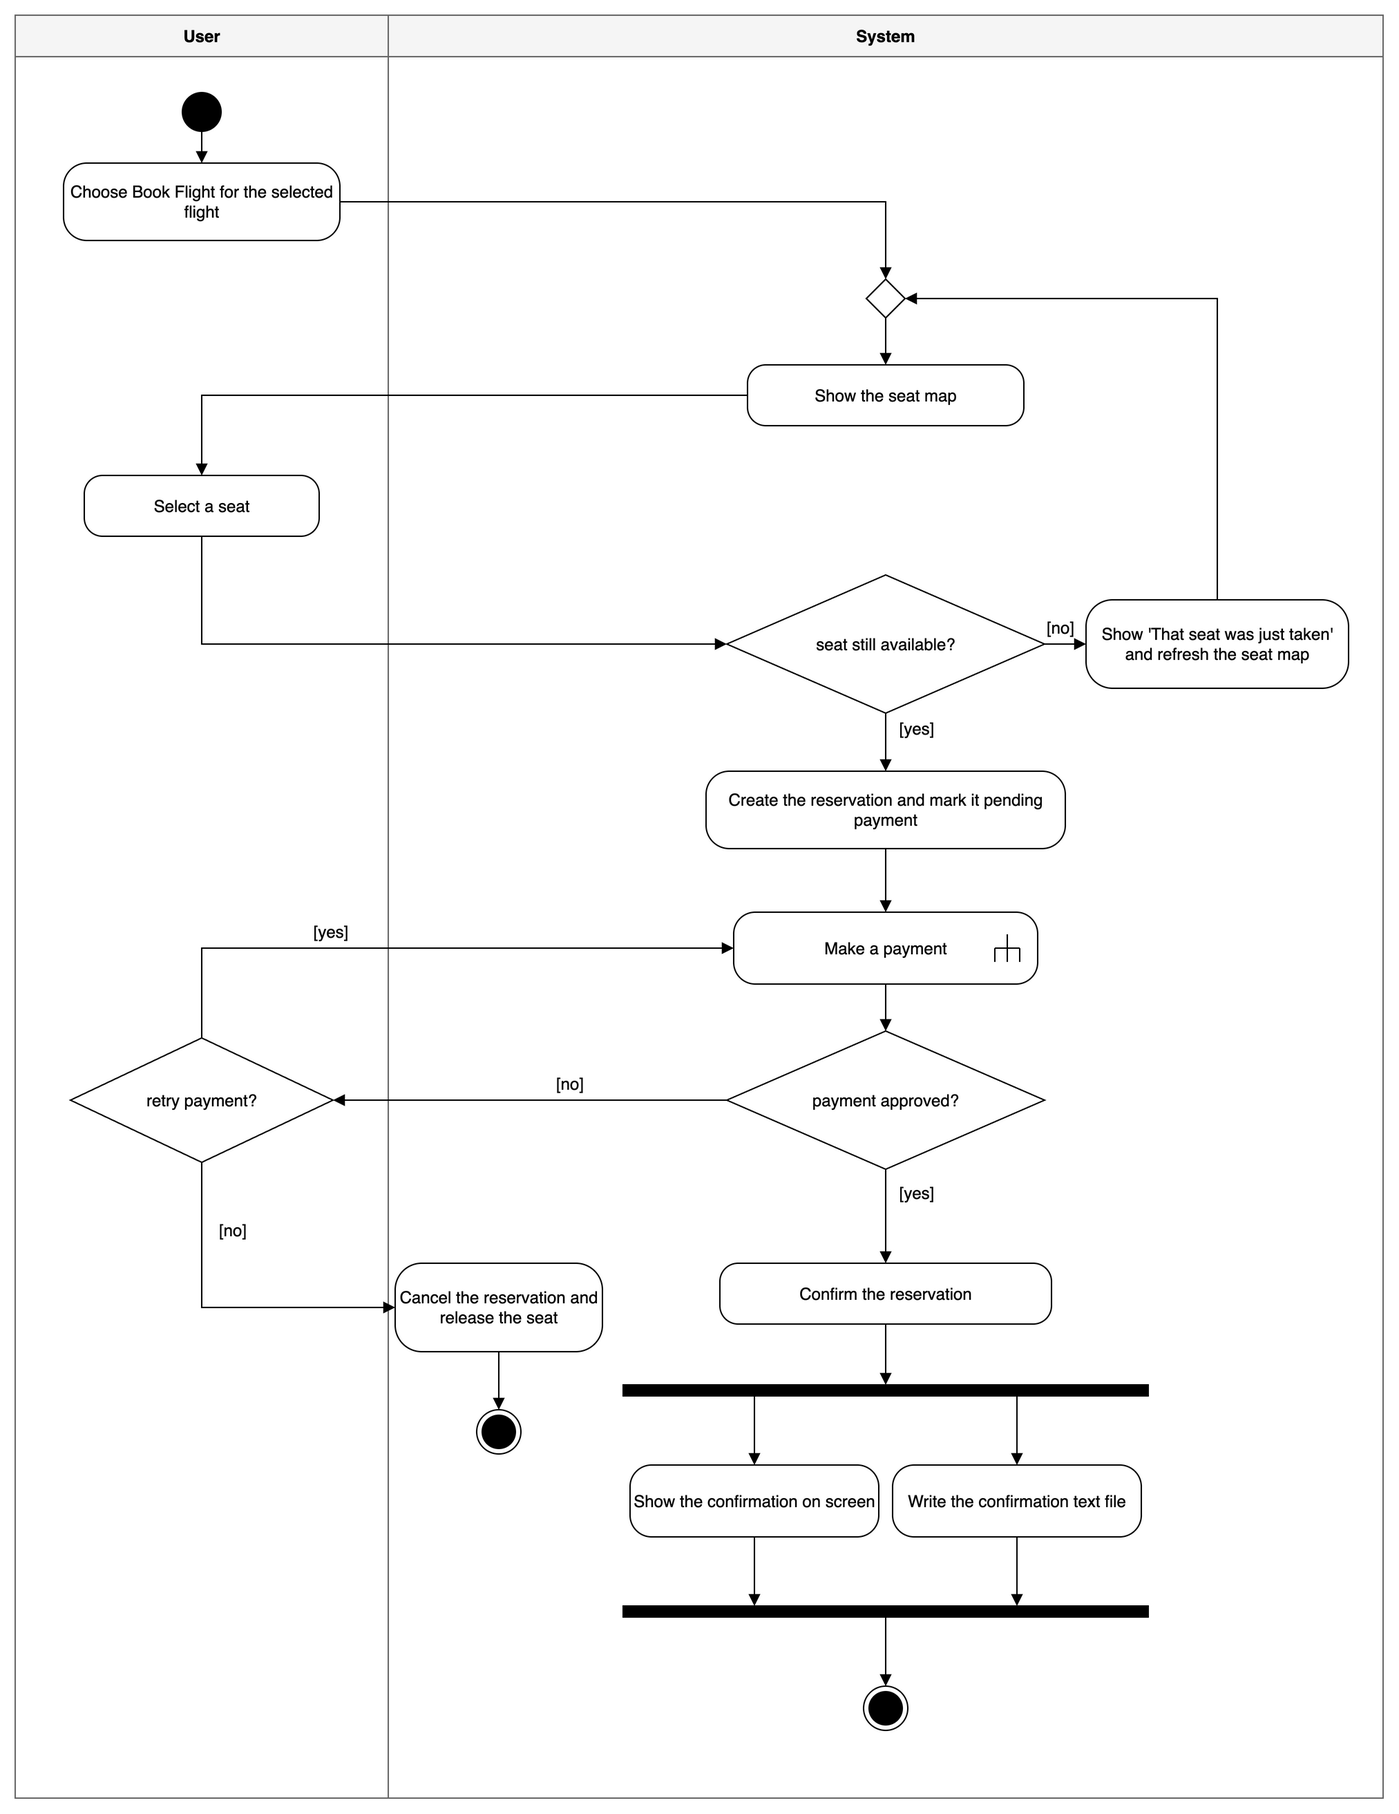
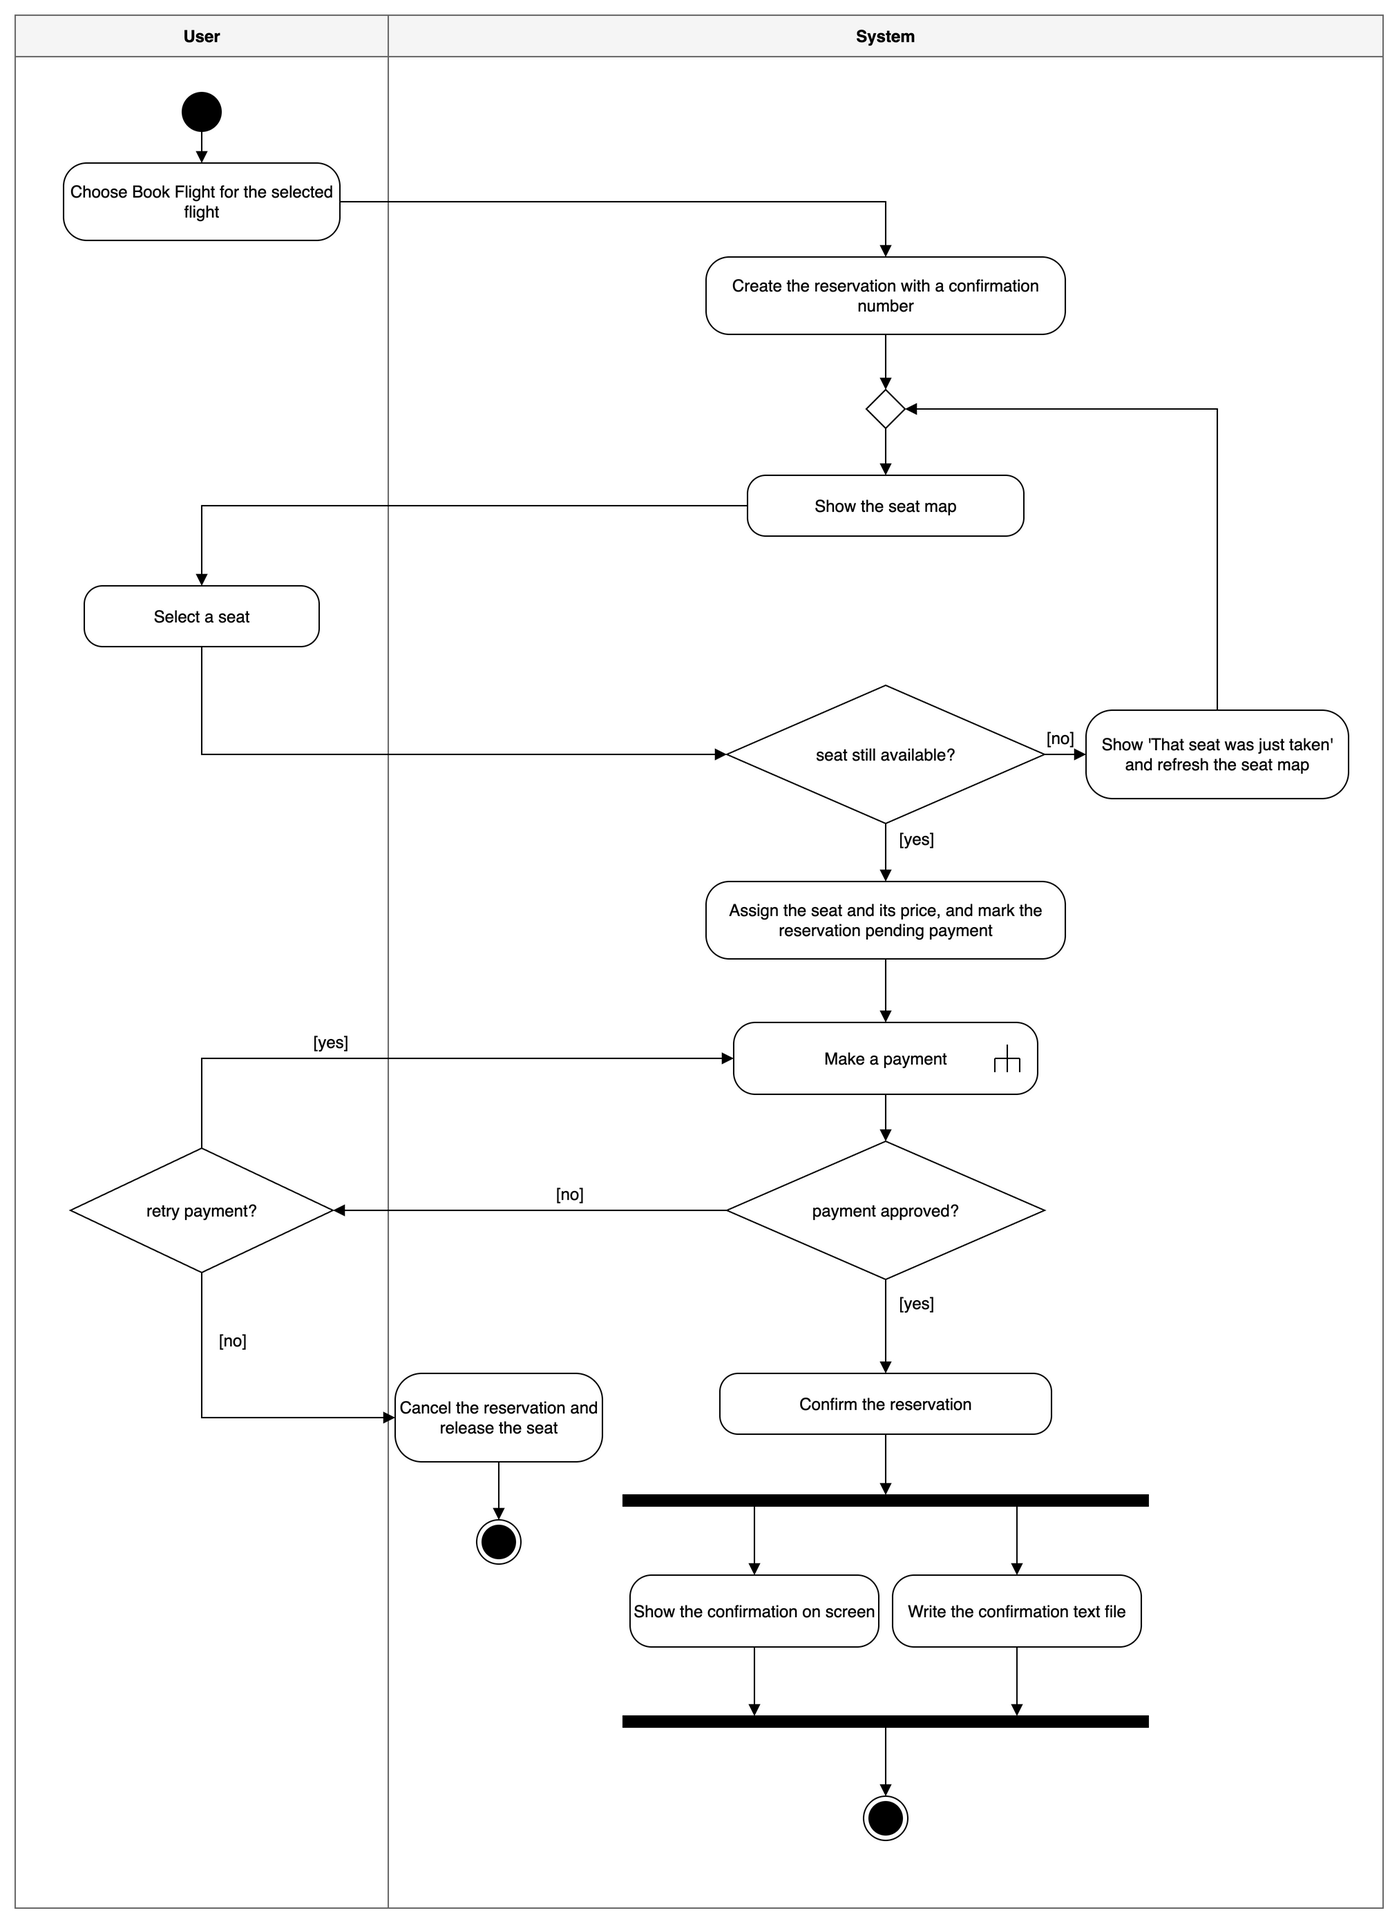
Make the design report agree with itself and with the code
The booking scenario and activity diagram now create the reservation before the seat is chosen, like BookingController and the sequence diagram. Select Seat becomes UC-18. CustomerDashboard is CustomerHome, classes that no longer exist are gone from the report, and the non-functional table names the tests that check each quality instead of issue numbers that are no longer in the repository.

diff --git a/docs/report/sections/requirements.tex b/docs/report/sections/requirements.tex
@@ -34,23 +34,23 @@ FR-14 & Select a seat when making a reservation. & 3.1 & ours\\
 
 Section 4 of the guideline names usability, portability, maintainability and
 scalability. The assessment criteria add reusability and reliability, and we
-add security. Each quality has a measurable criterion, the part of the design
-that meets it, and the issue that proves it.
+add security. Each quality has a criterion, the part of the design
+that meets it, and the automated tests that check it.
 
 \begingroup
 \raggedright
-\begin{longtable}{@{}>{\raggedright\arraybackslash}p{2.6cm}>{\raggedright\arraybackslash}p{4.7cm}>{\raggedright\arraybackslash}p{4.4cm}>{\raggedright\arraybackslash}p{2.2cm}@{}}
+\begin{longtable}{@{}>{\raggedright\arraybackslash}p{2.8cm}>{\raggedright\arraybackslash}p{4.1cm}>{\raggedright\arraybackslash}p{3.5cm}>{\raggedright\arraybackslash}p{4.0cm}@{}}
 \toprule
-\textbf{Quality} & \textbf{Measurable criterion} & \textbf{How the design meets it} & \textbf{Evidence}\\
+\textbf{Quality} & \textbf{Measurable criterion} & \textbf{How the design meets it} & \textbf{Checked by}\\
 \midrule
 \endhead
-Usability & Every use case is reachable in at most 4 clicks from the role's dashboard. A bad input shows one plain sentence that names the field and the problem, never a stack trace. Enter submits the default button and Tab follows reading order. & One dashboard per role with one button per task. Shared helpers parse input and phrase errors, so every form behaves the same. & P8-02, P8-03, P9-02\\
-Portability & \texttt{java -jar ChinookAir.jar -{}-selftest} prints \texttt{SELFTEST OK} and exits with 0 on macOS, Windows and Linux (Java 17). The database is created on first run, with no installer. & Standalone Swing application, embedded SQLite, one jar that holds every dependency. & P6-02, P9-04\\
-Maintainability & 0 Checkstyle violations on every build. The layers depend only downward, and ArchUnit tests fail the build if they do not. Every pull request ticks the same checklist. & Presentation, business (control and entity) and data packages. Class names match the class diagram. & P0-05, P6-09, P9-04\\
-Scalability & Replacing SQLite changes only the data package: presentation and business classes have no \texttt{java.sql} or \texttt{Sqlite*} dependency. Controllers contain no Swing code. & DAO interfaces with package-private SQLite classes behind a factory. Controllers take their DAOs through the constructor. & P4-01, P6-03, P6-09\\
-Reusability & Every entity and controller runs without Swing and without a display. The controller tests and the end-to-end test pass on a machine with no screen. Entities need no database. & Entities know nothing about the other layers. Controllers receive their DAOs and a clock instead of creating them. & P5-04, P7-04, P9-01\\
-Reliability & A seat cannot be reserved twice: a second active reservation for the same flight and seat is rejected by the database, and a test proves it. A declined payment never leaves a confirmed reservation. & A partial unique index is the last line of defence. The reservation DAO and the \texttt{BookingController} turn it into a clear message. & P6-01, P6-06, P7-04, P7-06\\
-Security & Passwords are stored only as PBKDF2 hashes with a random salt. Only the last 4 card digits are stored, and a card number is never logged. & A password hasher in the utility package. The payment details class keeps only the masked card. & P5-01, P5-05\\
+Usability & Every screen of a role is a tab or a button of that role's start screen. A bad input shows one plain sentence that names the field and the problem, never a stack trace. Enter submits the default button and Tab follows reading order. & One dashboard per role with one button per task. Shared helpers parse input and phrase errors, so every form behaves the same. & \footnotesize \texttt{NavModelTest}\newline \texttt{KeyboardTraversalTest}\newline \texttt{ScreenDefaultsTest}\newline \texttt{InputParserTest}\newline \texttt{ErrorMessagesTest}\\
+Portability & Running the jar with the argument \texttt{-{}-selftest} prints \texttt{SELFTEST OK} and exits with 0. The jar needs only Java 17. The database is created on first run, with no installer. & Standalone Swing application, embedded SQLite, one jar that holds every dependency. & \footnotesize \texttt{SelfTestTest}\newline \texttt{MainFrameSmokeTest}\newline the build workflow runs on Linux with Java 17\\
+Maintainability & 0 Checkstyle violations on every build. The layers depend only downward, and ArchUnit tests fail the build if they do not. & Presentation, business (control and entity) and data packages. Class names match the class diagram. & \footnotesize \texttt{ArchitectureTest}\newline Checkstyle in every \texttt{mvn verify}\\
+Scalability & Replacing SQLite changes only the data package: presentation and business classes have no \texttt{java.sql} or \texttt{Sqlite*} dependency. Controllers contain no Swing code. & DAO interfaces with package-private SQLite classes behind a factory. Controllers take their DAOs through the constructor. & \footnotesize \texttt{ArchitectureTest}\newline \texttt{DaoFactoryTest}\\
+Reusability & Every entity and controller runs without Swing and without a display. The controller tests and the end-to-end test pass on a machine with no screen. Entities need no database. & Entities know nothing about the other layers. Controllers receive their DAOs and a clock instead of creating them. & \footnotesize \texttt{BookingControllerTest}\newline \texttt{PaymentControllerTest}\newline \texttt{EndToEndFlowTest}\newline \texttt{AppContextTest}\\
+Reliability & A seat cannot be reserved twice: a second active reservation for the same flight and seat is rejected by the database, and a test proves it. A declined payment never leaves a confirmed reservation. & A partial unique index is the last line of defence. The reservation DAO and the \texttt{BookingController} turn it into a clear message. & \footnotesize \texttt{SqliteReservationDaoTest}\newline \texttt{BookingControllerTest}\newline \texttt{PaymentControllerTest}\\
+Security & Passwords are stored only as PBKDF2 hashes with a random salt. Only the last 4 card digits are stored, and a card number is never logged. & A password hasher in the utility package. The payment details class keeps only the masked card. & \footnotesize \texttt{PasswordHasherTest}\newline \texttt{PaymentDetailsTest}\newline \texttt{SqlitePaymentDaoTest}\\
 \bottomrule
 \end{longtable}
 \endgroup

diff --git a/docs/report/sections/c-scenarios.tex b/docs/report/sections/c-scenarios.tex
@@ -26,12 +26,12 @@ collected in the candidate tables of this section.
 \item The system \op{lists} the \cls{Flight}s on that \cls{Route} with their
   departure times, prices and number of free \cls{Seat}s.
 \item The \cls{Customer} \op{selects} a \cls{Flight}.
-\item The system \op{shows} the seat map of the \cls{Aircraft} with the free
-  \cls{Seat}s marked.
-\item The \cls{Customer} \op{selects} a \cls{Seat}.
 \item The system \op{creates} a \cls{Reservation} for the \cls{Customer}, with
-  a confirmation number and the price of the \cls{Seat}, and marks it pending
-  payment.
+  a confirmation number and no \cls{Seat} yet, and \op{shows} the seat map of
+  the \cls{Aircraft} with the free \cls{Seat}s marked.
+\item The \cls{Customer} \op{selects} a \cls{Seat}.
+\item The system \op{assigns} the \cls{Seat} and its price to the
+  \cls{Reservation} and marks it pending payment.
 \item The \cls{Customer} \op{enters} the \cls{Payment} details: card type,
   cardholder name, card number and expiry date.
 \item The system \op{simulates} the \cls{Payment} and \op{approves} it.
@@ -52,8 +52,9 @@ collected in the candidate tables of this section.
 \item[5a. No \cls{Flight} matches.] The system \op{tells} the \cls{Customer}
   that no \cls{Flight} was found. The scenario continues at step 4.
 \item[9a. The \cls{Seat} was taken in the meantime.] The system \op{rejects}
-  the \cls{Reservation}, \op{shows} a message and \op{shows} the seat map
-  again. The scenario continues at step 8.
+  the choice and \op{shows} a message and the seat map again. The
+  \cls{Reservation} stays without a \cls{Seat}. The scenario continues at
+  step 8.
 \item[10a. The card details are invalid.] The system \op{shows} a message that
   names the field and what is wrong. The scenario continues at step 10.
 \item[11a. The \cls{Payment} is declined.] The system \op{shows} the reason and
@@ -300,7 +301,7 @@ lists & \ctl{search(criteria)}, \ctl{history(customerId)}, \ctl{recordsForCustom
 enters & input fields of the view, passed to \ctl{search(criteria)}, \ctl{pay(...)}, \ctl{addFlight(details)} & FlightSearchView, PaymentView, FlightManagementView & UC-06, UC-10, UC-14\\
 selects & \ctl{selectSeat(reservationId, seatNo)} for a seat; a flight or reservation is selected in the view & BookingController, views & UC-06, UC-10\\
 picks & \ctl{modify(reservationId, newFlightId, newSeatNo)}, \ctl{addFlight(details)}; the choices come from \ctl{list()} & ReservationController, FlightManagementController, RouteController, AircraftController & UC-10, UC-14\\
-chooses & menu choice in the view & CustomerDashboard, AgentDashboard, AdminDashboard & UC-06, UC-10, UC-14\\
+chooses & menu choice in the view & CustomerHome, AgentDashboard, AdminDashboard & UC-06, UC-10, UC-14\\
 opens & \ctl{history(customerId)}, \ctl{recordsForCustomer(customerId)} & ReservationController, PaymentController & UC-10\\
 corrects, saves (a profile) & \ctl{update(customer)} & CustomerController & UC-10\\
 creates & \ctl{startReservation(customerId, flightId)}, \ctl{addFlight(details)} & BookingController, FlightManagementController & UC-06, UC-14\\
@@ -360,7 +361,7 @@ PaymentController calls, so it has no use case of its own.
 \ctl{LoginController} & UC-01 & the login step of every scenario\\
 \ctl{CustomerController} & UC-02, UC-03 & UC-06 extension 3b, UC-10 steps 2 to 5\\
 \ctl{FlightSearchController} & UC-04, UC-05 & UC-06 steps 4 to 6, UC-10 steps 9 to 10\\
-\ctl{BookingController} & UC-06 & UC-06 steps 8 and 9, extension 11a\\
+\ctl{BookingController} & UC-06, UC-18 & UC-06 steps 7 to 9, extension 11a\\
 \ctl{PaymentController} & UC-07, UC-08 & UC-06 steps 10 and 11, UC-10 steps 14 to 17\\
 \ctl{ReservationController} & UC-09, UC-10, UC-11 & UC-10 steps 6 to 8 and 12 to 13\\
 \ctl{ScheduleController} & UC-12, UC-13 & UC-14 steps 8 and 9\\

diff --git a/docs/report/sections/traceability.tex b/docs/report/sections/traceability.tex
@@ -38,6 +38,7 @@ UC-14 Manage Flights & FR-7, FR-11 & Scenario UC-14; sequence diagram Manage fli
 UC-15 Manage Routes & FR-8 & Scenario UC-14 extension 4a & \ctl{Route\allowbreak Controller} & Route, Airport\\
 UC-16 Manage Aircraft & FR-8 & Scenario UC-14 extension 4b & \ctl{Aircraft\allowbreak Controller} & Aircraft\\
 UC-17 View Monthly Promotion & FR-12 & Scenario UC-06 step 2; state diagram of the system & \ctl{Promotion\allowbreak Controller} & Promotion\\
+UC-18 Select Seat & FR-14 & Scenario UC-06 steps 7 to 9; sequence diagram and activity diagram Book flight & \ctl{Booking\allowbreak Controller} & Seat, Reservation, Flight\\
 \bottomrule
 \end{longtable}
 \endgroup
@@ -68,19 +69,19 @@ Flights, as in section C.
 \ctl{Aircraft} & entity & UC-06 (step 7), UC-14 (steps 4 and 7, extension 4b)\\
 \ctl{Flight} & entity & UC-06 (steps 5 to 6), UC-10 (steps 9 to 12), UC-14 (steps 4 to 11)\\
 \ctl{Seat} & entity & UC-06 (steps 7 to 8), UC-10 (steps 10 to 12), UC-14 (step 7)\\
-\ctl{Reservation} & entity & UC-06 (steps 9, 12), UC-10 (steps 6 to 13), UC-14 (steps 10 to 11)\\
+\ctl{Reservation} & entity & UC-06 (steps 7, 9, 12), UC-10 (steps 6 to 13), UC-14 (steps 10 to 11)\\
 \ctl{Payment} & entity & UC-06 (steps 10 to 11), UC-10 (steps 14 to 17)\\
 \ctl{Promotion} & entity & UC-06 (step 2)\\
 \ctl{Role} & enumeration & UC-06, UC-10, UC-14 (the role selects the dashboard after log in)\\
 \ctl{SeatClass} & enumeration & UC-06 (step 8), UC-10 (step 11): economy or business Seat\\
-\ctl{ReservationStatus} & enumeration & UC-06 (steps 9, 12), UC-10 (steps 13, 18): pending payment, confirmed\\
+\ctl{ReservationStatus} & enumeration & UC-06 (steps 7, 9, 12), UC-10 (steps 13, 18): pending payment, confirmed\\
 \ctl{PaymentStatus} & enumeration & UC-06 (steps 11, 11a), UC-10 (steps 13, 17): approved, declined, refunded\\
 \ctl{PaymentMethodType} & enumeration & UC-06 (step 10): the card type\\
 \midrule
 \ctl{LoginController} & control & UC-06, UC-10, UC-14 (the log-in step)\\
 \ctl{CustomerController} & control & UC-06 (extension 3b), UC-10 (steps 2 to 5)\\
 \ctl{FlightSearchController} & control & UC-06 (steps 4 to 6), UC-10 (steps 9 to 10)\\
-\ctl{BookingController} & control & UC-06 (steps 8 to 9, extension 11a)\\
+\ctl{BookingController} & control & UC-06 (steps 7 to 9, extension 11a)\\
 \ctl{PaymentController} & control & UC-06 (steps 10 to 11), UC-10 (steps 14 to 17)\\
 \ctl{ReservationController} & control & UC-10 (steps 6 to 8 and 12 to 13)\\
 \ctl{ScheduleController} & control & UC-14 (steps 8 to 9)\\
@@ -91,7 +92,7 @@ Flights, as in section C.
 \ctl{ConfirmationWriter} & control & UC-06 (step 13), UC-10 (step 19)\\
 \midrule
 \ctl{MainFrame} & boundary & UC-06 (step 1)\\
-\ctl{CustomerDashboard} & boundary & UC-06 (after step 3)\\
+\ctl{CustomerHome} & boundary & UC-06 (after step 3)\\
 \ctl{AgentDashboard} & boundary & UC-10 (after step 1)\\
 \ctl{AdminDashboard} & boundary & UC-14 (step 2)\\
 \ctl{PromotionDialog} & boundary & UC-06 (step 2)\\

diff --git a/docs/report/sections/f-class.tex b/docs/report/sections/f-class.tex
@@ -175,12 +175,12 @@ does not repeat the rule), \texttt{isArchived} on FlightDao and
 \ctl{data} & \ctl{JdbcSupport} & small helpers for queries, updates and transactions (package-private)\\
 \ctl{data} & \ctl{DbDates} & writes and reads dates as ISO text (package-private)\\
 \ctl{presentation} & \ctl{Navigator, \allowbreak ViewId, \allowbreak Screen} & how a screen asks for another one, the list of screens, and the hook that runs when a screen is shown\\
-\ctl{presentation} & \ctl{Dashboard} & base of the three dashboards\\
+\ctl{presentation} & \ctl{Dashboard} & base of AgentDashboard and AdminDashboard (CustomerHome is its own screen)\\
 \ctl{presentation} & \ctl{BookingSession} & what is picked while booking or modifying: flight, customer, reservation, payment\\
-\ctl{presentation} & \ctl{InputParser, \allowbreak ErrorMessages, \allowbreak Dialogs} & turn typed text into values, exceptions into plain sentences, and show messages\\
+\ctl{presentation} & \ctl{InputParser, \allowbreak ErrorMessages, \allowbreak Alert, \allowbreak ConfirmDialog} & turn typed text into values, exceptions into plain sentences, show a message, and ask the user to confirm\\
 \ctl{presentation} & \ctl{SeatGridModel} & the seat map as rows and columns, without Swing\\
-\ctl{presentation} & \ctl{FlightTableModel, \allowbreak ReservationTableModel, \allowbreak CustomerTableModel, \allowbreak PaymentTableModel, \allowbreak RouteTableModel, \allowbreak AircraftTableModel, \allowbreak ScheduleTableModel} & the rows of each table\\
-\ctl{presentation} & \ctl{CustomerForm, \allowbreak PromotionPanel, \allowbreak ComingSoonView} & parts used by several screens, and the stand-in for a screen that is not built\\
+\ctl{presentation} & \ctl{ReservationTableModel, \allowbreak CustomerTableModel, \allowbreak PaymentTableModel, \allowbreak RouteTableModel, \allowbreak AircraftTableModel, \allowbreak ScheduleTableModel} & the rows of each table\\
+\ctl{presentation} & \ctl{CustomerForm, \allowbreak PromotionPanel, \allowbreak FlightResultList} & parts used by several screens: the customer form, the promotion text, and the list of flights found by a search\\
 \bottomrule
 \end{longtable}
 \endgroup

diff --git a/docs/report/sections/b-use-case-diagram.tex b/docs/report/sections/b-use-case-diagram.tex
@@ -2,7 +2,8 @@
 
 \subsection*{Use cases}
 
-Every use case has one control class, because section D asks for each
+Every use case has one control class (Select Seat, UC-18, is only reached
+through Book Flight and shares BookingController with it), because section D asks for each
 sequence diagram's use case to be represented by a control class. The goal of
 each use case is a result of value to its actor. FR-11 (database storage)
 applies to every use case that saves data; it is listed on the two use cases
@@ -33,6 +34,7 @@ UC-14 & Manage Flights & Administrator & FR-7, FR-11 & \ctl{Flight\allowbreak Ma
 UC-15 & Manage Routes & Administrator & FR-8 & \ctl{Route\allowbreak Controller} & Keep the origin and destination pairs correct.\\
 UC-16 & Manage Aircraft & Administrator & FR-8 & \ctl{Aircraft\allowbreak Controller} & Keep the aircraft and their seat layouts correct.\\
 UC-17 & View Monthly Promotion & Customer & FR-12 & \ctl{Promotion\allowbreak Controller} & Learn about this month's promotion the first time the application opens.\\
+UC-18 & Select Seat & Customer, Flight Agent (through Book Flight) & FR-14 & \ctl{Booking\allowbreak Controller} & Pick a free seat for a reservation and fix its price.\\
 \bottomrule
 \end{longtable}
 \endgroup

diff --git a/docs/report/sections/a-introduction.tex b/docs/report/sections/a-introduction.tex
@@ -116,10 +116,12 @@ user is returned to the list.
 
 \subsubsection*{Book a flight (UC-06)}
 
-The diagram below shows how a seat is reserved. The system shows the seat map
-and the user selects a seat. If the seat was taken in the meantime, the system
-says so and shows the map again. Otherwise the system creates the reservation
-and marks it pending payment, and the payment process runs (the symbol with the
+The diagram below shows how a seat is reserved. When the user chooses Book
+Flight, the system creates the reservation with a confirmation number but no
+seat yet, and shows the seat map. The user selects a seat. If the seat was taken
+in the meantime, the system says so and shows the map again. Otherwise the
+system assigns the seat and its price and marks the reservation pending
+payment, and the payment process runs (the symbol with the
 fork inside the node refers to the payment diagram). If the payment is
 declined, the user either retries or abandons, and abandoning cancels the
 reservation and releases the seat. If it is approved, the reservation is
